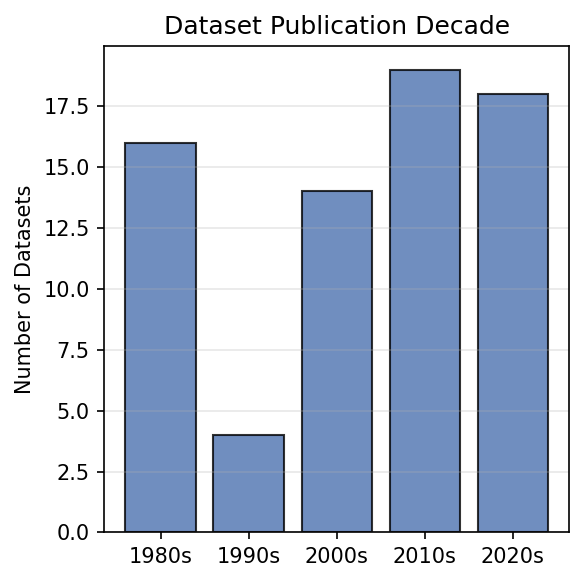
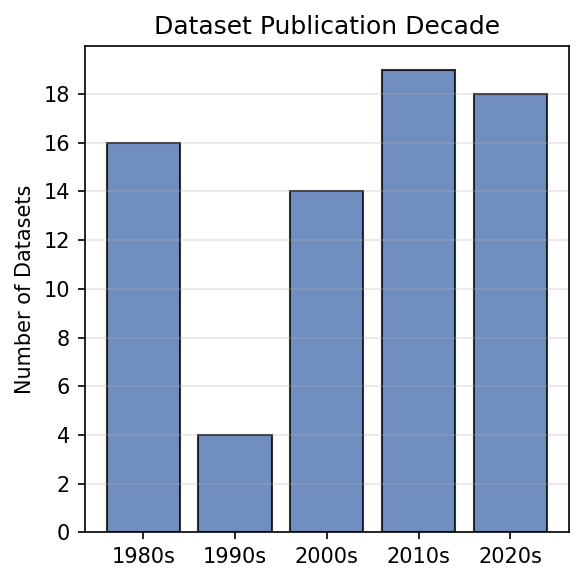
fix: beautify axis

diff --git a/plotting_code/datasets/datasets_age_v1.py b/plotting_code/datasets/datasets_age_v1.py
@@ -40,6 +40,9 @@ def plot(df):
     ax.set_ylabel("Number of Datasets")
     ax.grid(True, alpha=0.3, axis="y")
 
+    from matplotlib.ticker import MaxNLocator
+    ax.yaxis.set_major_locator(MaxNLocator(integer=True))
+
     plt.tight_layout()
     out = OUTPUT_DIR / PLOT_NAME
     plt.savefig(out, dpi=150, bbox_inches="tight")
